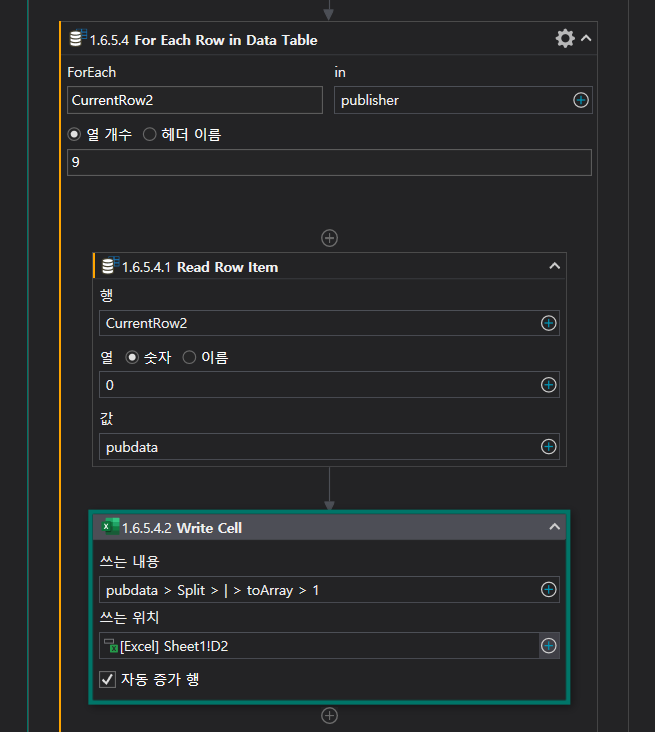
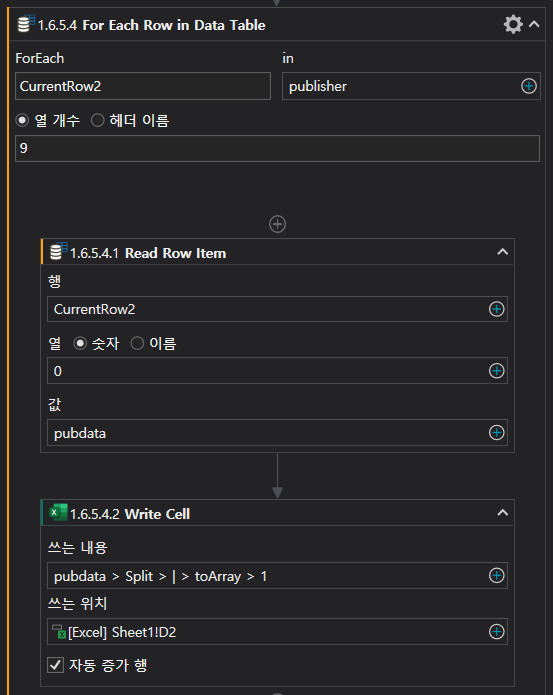
post 02 modify

diff --git a/_posts/2021-10-14-RPA_Study02.md b/_posts/2021-10-14-RPA_Study02.md
@@ -71,9 +71,9 @@ Maximize Window를 통해 화면 크기를 최대로 키운뒤, Delay를 걸어 
 ![posting16](https://user-images.githubusercontent.com/79980786/137419322-141d4be6-239e-4960-b340-de06611eb2ca.png)<br><br>
 
 #### **10. 저장된 데이터를 한 줄씩 읽어 온 후 출판사를 추출하여 엑셀에 저장** <br><br>
-![posting17](https://user-images.githubusercontent.com/79980786/137419326-13388d8a-49b5-42c9-8e04-10b494e081a0.png)<br><br>
+![posting17](https://user-images.githubusercontent.com/79980786/137428028-491f19d4-af6a-4d65-9673-3d2a016246eb.png)<br><br>
 
-출판사를 추출 할 때 split("|").toarray(1) 을 사용 엑셀 저장은 출판사 칼럼이 저장된 Sheet1!D1의 다음인 D2부터 저장<br><br>
+출판사를 추출 할 때 split과 toarry 를 사용 엑셀 저장은 출판사 칼럼이 저장된 Sheet1!D1의 다음인 D2부터 저장<br><br>
 
 #### **11. Autofit Range 를 사용해 엑셀 정렬화** <br><br>
 ![posting18](https://user-images.githubusercontent.com/79980786/137419343-aa2aa7f8-c3eb-463c-904a-34a91cae6a4b.png)
